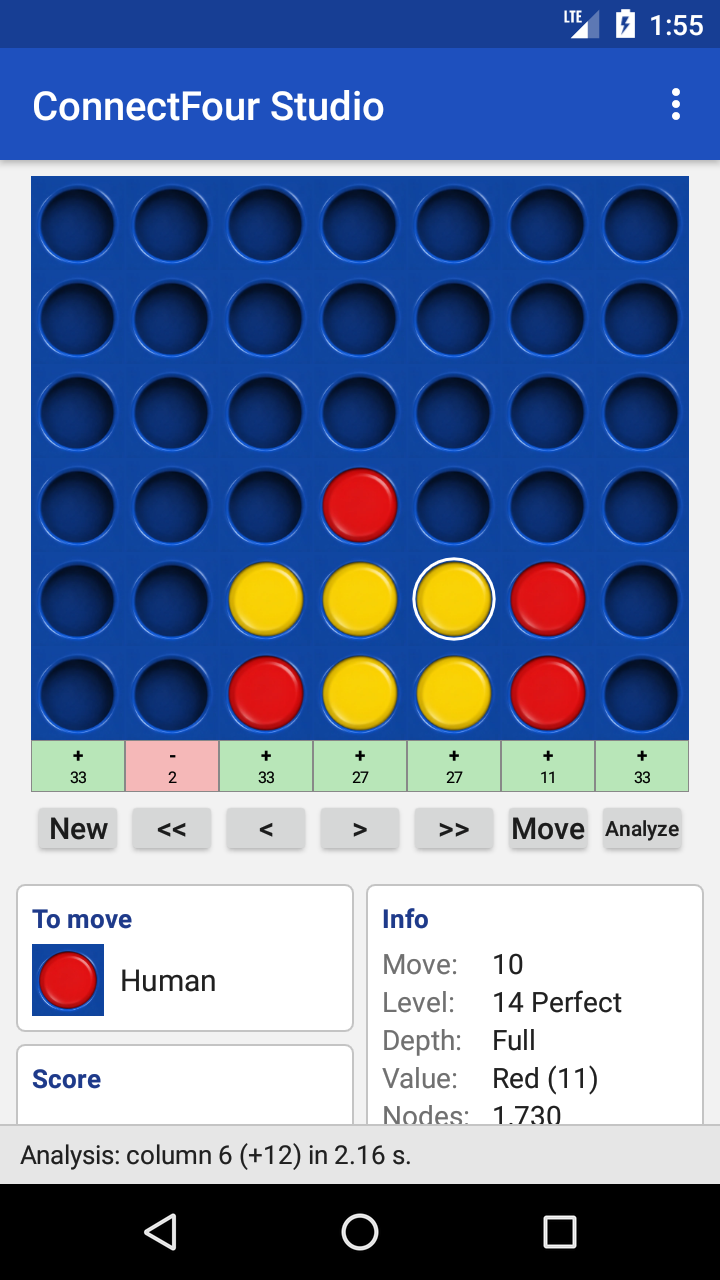
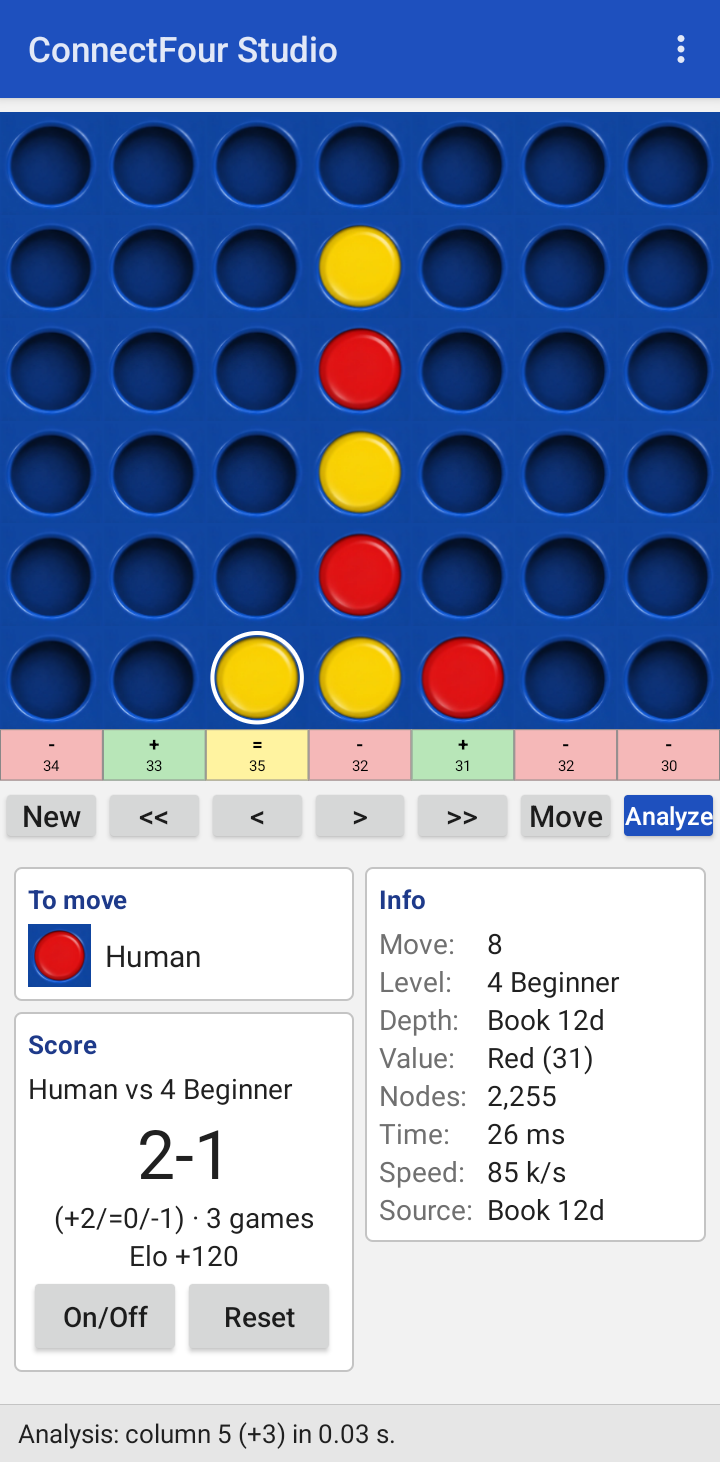
Store screenshots: new English set from a real phone
Eight screenshots (analysis on three stone sets, menu, game mode, levels,
stone sets, languages) without status and navigation bar; de-DE now falls
back to en-US.

diff --git a/ASSETS.md b/ASSETS.md
@@ -7,7 +7,7 @@
 | Programm-Icon (`res/drawable/ic_launcher_*.xml`, `res/mipmap-*/ic_launcher.png`, `fastlane/…/icon.png`) | nachgezeichnet nach `data/connectfour-studio.png` (`scripts/gen_icons.py`) | Patrick Götz | GNU AGPL v3 |
 | `app/src/main/assets/book/book_12ply_dist.cfb` | `book_12ply_distances.dat` aus **bitbully-databases 0.0.2** von Markus Thill, verlustfrei umgepackt (`scripts/encode_book.py`) | Markus Thill | MIT (https://github.com/MarkusThill/bitbully-databases) |
 | `app/src/main/res/raw*/help.json`, `values*/strings.xml` | Texte aus `cfs_core.help_content` und `cfs_core.lang` der Desktop-Version (generiert) | Patrick Götz | GNU AGPL v3 |
-| Screenshots in `fastlane/metadata/android/*/images/phoneScreenshots/` | auf dem Emulator aufgenommen | Patrick Götz | GNU AGPL v3 |
+| Screenshots in `fastlane/metadata/android/en-US/images/phoneScreenshots/` (gelten für alle Sprachen) | auf einem moto g(30) aufgenommen, englische Oberfläche | Patrick Götz | GNU AGPL v3 |
 
 Die Engine selbst (`core/src/main/kotlin/.../engine/`) ist eine Portierung von
 **BitBully** (C++/Python, © Markus Thill, GNU AGPL v3,
